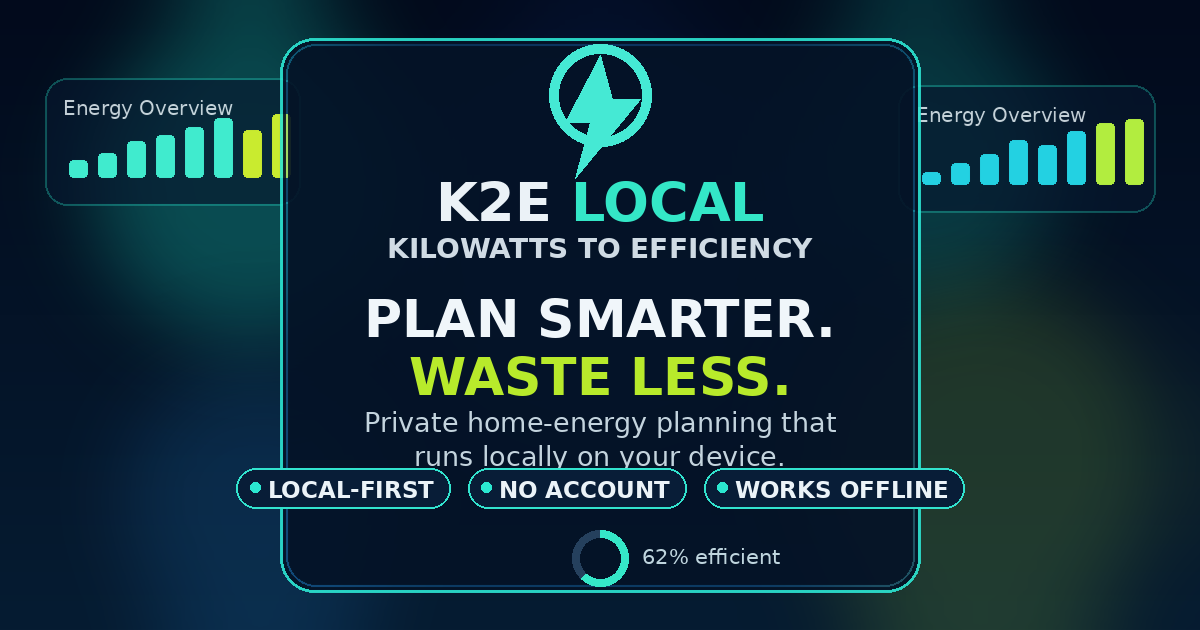
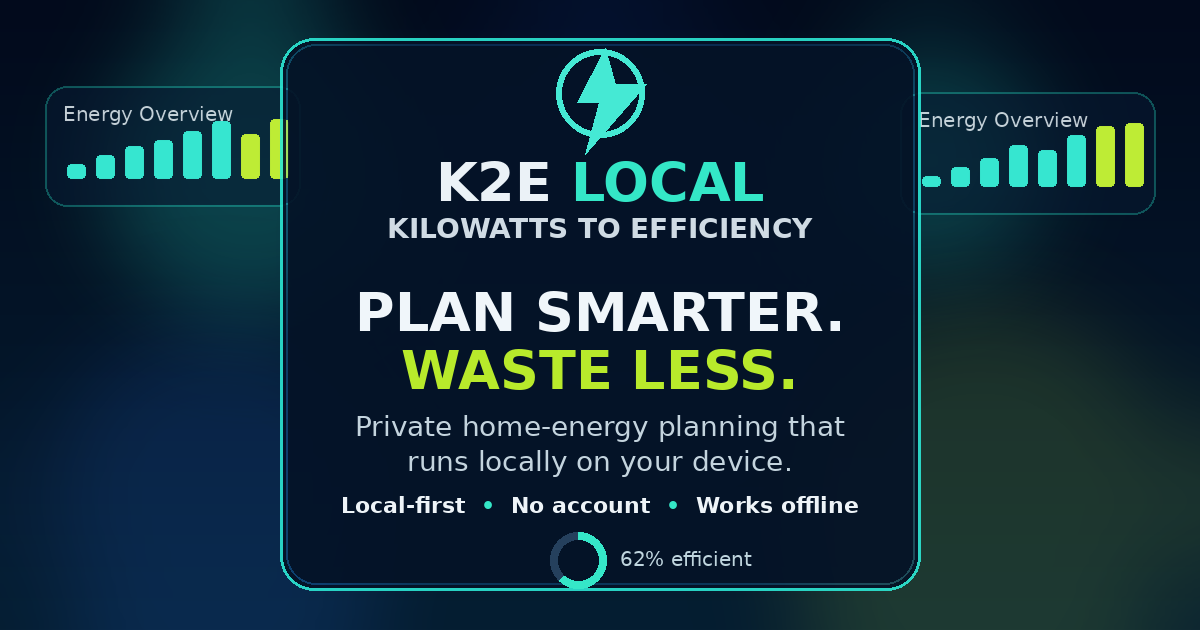
Add files via upload
Tighten K2E social preview trust row to prevent bottom text cropping

diff --git a/app.html b/app.html
@@ -25,8 +25,8 @@
 <meta property="og:type" content="website">
 <meta property="og:locale" content="en_CA">
 <meta property="og:url" content="https://nrg-roan.vercel.app/app.html">
-<meta property="og:image" content="https://nrg-roan.vercel.app/assets/k2e-local-social-preview-v1.14.0.png">
-<meta property="og:image:secure_url" content="https://nrg-roan.vercel.app/assets/k2e-local-social-preview-v1.14.0.png">
+<meta property="og:image" content="https://nrg-roan.vercel.app/assets/k2e-local-social-preview-v1.14.1.png">
+<meta property="og:image:secure_url" content="https://nrg-roan.vercel.app/assets/k2e-local-social-preview-v1.14.1.png">
 <meta property="og:image:type" content="image/png">
 <meta property="og:image:width" content="1200">
 <meta property="og:image:height" content="630">
@@ -34,7 +34,7 @@
 <meta name="twitter:card" content="summary_large_image">
 <meta name="twitter:title" content="K2E Local — Home Energy Simulator">
 <meta name="twitter:description" content="Know where your home energy goes. Plan smarter, waste less, and keep your data on your device with K2E Local.">
-<meta name="twitter:image" content="https://nrg-roan.vercel.app/assets/k2e-local-social-preview-v1.14.0.png">
+<meta name="twitter:image" content="https://nrg-roan.vercel.app/assets/k2e-local-social-preview-v1.14.1.png">
 <meta name="twitter:image:alt" content="K2E Local — Plan smarter, waste less with private local home-energy planning">
 <style>
 /* ======== ULTRA-CONTRAST v3 THEME TOKENS ======== */
@@ -8913,79 +8913,6 @@ if(document.readyState==='loading')document.addEventListener('DOMContentLoaded',
 })();
 </script>
 
-
-
-<!-- K2E Local v1.14.0 — final release hardening -->
-<style id="k2e-v1140-hardening-style">
-.k2e-v1140-onboarding{display:grid;grid-template-columns:minmax(0,1fr) auto;gap:18px;align-items:center;margin:12px 0 16px;padding:16px 18px;border:1px solid color-mix(in srgb,var(--accent) 48%,var(--card-br));border-radius:16px;background:linear-gradient(135deg,color-mix(in srgb,var(--card) 94%,var(--accent) 6%),color-mix(in srgb,var(--card) 97%,var(--accent-2) 3%));box-shadow:0 14px 35px rgba(0,0,0,.08)}
-.k2e-v1140-onboarding h2{font-size:clamp(18px,2vw,24px);margin:0 0 6px}.k2e-v1140-onboarding p{margin:0;color:var(--muted);line-height:1.5}.k2e-v1140-steps{display:flex;gap:8px;flex-wrap:wrap;justify-content:flex-end}.k2e-v1140-step{display:inline-flex;align-items:center;gap:7px;padding:8px 11px;border:1px solid var(--card-br);border-radius:999px;background:var(--card);font-size:12px;font-weight:850;white-space:nowrap}.k2e-v1140-step b{display:grid;place-items:center;width:20px;height:20px;border-radius:50%;background:var(--accent);color:#041018;font-size:11px}
-.k2e-v1140-network{position:fixed;right:14px;bottom:14px;z-index:9999;display:inline-flex;align-items:center;gap:7px;padding:8px 11px;border:1px solid var(--card-br);border-radius:999px;background:color-mix(in srgb,var(--card) 95%,transparent);box-shadow:0 10px 28px rgba(0,0,0,.16);font-size:12px;font-weight:850;backdrop-filter:blur(12px)}.k2e-v1140-network::before{content:'●';color:#22c55e}.k2e-v1140-network[data-online="false"]::before{color:#f59e0b}
-.k2e-v1140-footer{margin:18px auto 8px;padding:14px 16px;text-align:center;color:var(--muted);font-size:12px;font-weight:750;border-top:1px solid var(--card-br)}
-.k2e-v1140-invalid{border-color:#ef4444!important;box-shadow:0 0 0 3px rgba(239,68,68,.16)!important}.k2e-v1140-field-error{display:block;margin-top:5px;color:#ef4444;font-size:12px;font-weight:750}
-.k2e-v1140-updating{opacity:.72;transition:opacity .15s ease}.k2e-v1140-updating::after{content:' Updating plan…';font-size:11px;color:var(--muted);font-weight:750}
-@media(max-width:760px){.k2e-v1140-onboarding{grid-template-columns:1fr}.k2e-v1140-steps{justify-content:flex-start}.k2e-v1140-network{right:8px;bottom:8px}.k2e-v1140-step{flex:1 1 135px;justify-content:center}}
-@media(max-width:430px){.k2e-v1140-onboarding{padding:14px}.k2e-v1140-steps{display:grid;grid-template-columns:1fr}.k2e-v1140-step{width:100%}}
-@media(prefers-reduced-motion:reduce){.k2e-v1140-updating{transition:none}}
-</style>
-<script id="k2e-v1140-hardening-script">
-(()=>{
-'use strict';
-const $=(s,r=document)=>r.querySelector(s), $$=(s,r=document)=>[...r.querySelectorAll(s)];
-const announce=msg=>{const n=$('#myvera-global-status');if(n)n.textContent=msg};
-function addOnboarding(){
- if($('#k2e-v1140-onboarding'))return;
- const host=$('#myvera-main-content')||$('main')||document.body;
- const box=document.createElement('section');box.id='k2e-v1140-onboarding';box.className='k2e-v1140-onboarding';box.setAttribute('aria-label','Quick start');
- box.innerHTML='<div><h2>Build a clearer home-energy plan</h2><p>Choose a mode, enter the devices you actually use, then review the estimate and recommended changes. Everything stays on this device.</p></div><div class="k2e-v1140-steps" aria-label="Three-step workflow"><span class="k2e-v1140-step"><b>1</b>Choose a mode</span><span class="k2e-v1140-step"><b>2</b>Add household details</span><span class="k2e-v1140-step"><b>3</b>Review your plan</span></div>';
- host.insertAdjacentElement('afterbegin',box);
-}
-function addNetworkState(){
- if($('#k2e-v1140-network'))return;
- const node=document.createElement('div');node.id='k2e-v1140-network';node.className='k2e-v1140-network';node.setAttribute('role','status');node.setAttribute('aria-live','polite');document.body.appendChild(node);
- const paint=()=>{const on=navigator.onLine;node.dataset.online=String(on);node.textContent=on?'Online · local calculations ready':'Offline · local calculations ready';announce(node.textContent)};
- addEventListener('online',paint);addEventListener('offline',paint);paint();
-}
-function addFooter(){
- if($('#k2e-v1140-footer'))return;
- const footer=document.createElement('footer');footer.id='k2e-v1140-footer';footer.className='k2e-v1140-footer';footer.textContent='Private by design · Calculations stay on your device · No account required';
- (document.querySelector('main')||document.body).insertAdjacentElement('afterend',footer);
-}
-function validateNumber(input){
- if(input.disabled||input.readOnly||input.type!=='number')return true;
- const raw=input.value.trim();let message='';
- if(raw==='')return clearError(input);
- const value=Number(raw), min=input.min!==''?Number(input.min):0, max=input.max!==''?Number(input.max):Infinity;
- if(!Number.isFinite(value))message='Enter a valid number.';
- else if(value<min)message='Use a value of '+min+' or higher.';
- else if(value>max)message='Use a value of '+max+' or lower.';
- else if(/hour|runtime/i.test(input.id+' '+input.name) && value>24)message='Daily runtime cannot exceed 24 hours.';
- else if(/qty|quantity/i.test(input.id+' '+input.name) && value>100)message='Check this quantity; it appears unusually high.';
- else if(/watt|power/i.test(input.id+' '+input.name) && value>50000)message='Check the wattage; it appears unusually high.';
- if(!message)return clearError(input);
- input.classList.add('k2e-v1140-invalid');input.setAttribute('aria-invalid','true');
- let err=input.parentElement?.querySelector('.k2e-v1140-field-error');if(!err){err=document.createElement('span');err.className='k2e-v1140-field-error';input.insertAdjacentElement('afterend',err)}err.textContent=message;return false;
-}
-function clearError(input){input.classList.remove('k2e-v1140-invalid');input.removeAttribute('aria-invalid');input.parentElement?.querySelector('.k2e-v1140-field-error')?.remove();return true}
-function wireValidation(){
- document.addEventListener('blur',e=>{if(e.target.matches('input[type="number"]'))validateNumber(e.target)},true);
- document.addEventListener('input',e=>{if(e.target.matches('input[type="number"]')&&e.target.classList.contains('k2e-v1140-invalid'))validateNumber(e.target)},true);
- document.addEventListener('submit',e=>{const invalid=$$('input[type="number"]',e.target).filter(i=>!validateNumber(i));if(invalid.length){e.preventDefault();invalid[0].focus();announce('Please correct the highlighted value.')}},true);
-}
-function wireResetProtection(){
- document.addEventListener('click',e=>{const b=e.target.closest('#btn-reset');if(!b||b.dataset.k2eConfirmed==='1')return;if(!confirm('Reset the current tweaks? Your saved household workspace will remain, but unsaved view adjustments will return to defaults.')){e.preventDefault();e.stopImmediatePropagation();announce('Reset cancelled');return}b.dataset.k2eConfirmed='1';setTimeout(()=>delete b.dataset.k2eConfirmed,0)},true);
-}
-function wireUpdateFeedback(){
- let timer;document.addEventListener('input',e=>{if(!e.target.matches('input,select'))return;const status=$('#myvera-workspace-status')||$('#myvera-save-state');if(!status)return;status.classList.add('k2e-v1140-updating');clearTimeout(timer);timer=setTimeout(()=>status.classList.remove('k2e-v1140-updating'),500)},true);
-}
-function improveInputs(){
- $$('input[type="number"]').forEach(i=>{if(i.min==='')i.min='0';i.inputMode='decimal'});
- $$('button').forEach(b=>{if(!b.getAttribute('type'))b.type='button'});
-}
-function boot(){addOnboarding();addNetworkState();addFooter();improveInputs();wireValidation();wireResetProtection();wireUpdateFeedback();announce('K2E Local is ready. Your workspace saves locally.');}
-if(document.readyState==='loading')document.addEventListener('DOMContentLoaded',boot,{once:true});else boot();
-})();
-</script>
-
 </body>
 <!-- K2E Local v27.8.14 — Roadmap Trajectory Lock -->
 <style id="myvera-v27813-github-prepush-stability-polish">
@@ -11774,156 +11701,10 @@ html:not(.myvera-developer-mode) .ai-provider-details {
   function renderReport(){const paper=$('k2e-report-paper');if(paper)paper.innerHTML=reportMarkup()}
   function printReport(){
     const html=reportMarkup(),win=window.open('','_blank');if(!win){alert('The browser blocked the print window. Allow pop-ups for this page and try again.');return}
-    try{win.opener=null}catch(_){};win.document.write('<!doctype html><html><head><meta charset="utf-8"><title>K2E Local Energy Report</title><style>body{font-family:Arial,sans-serif;color:#14202a;margin:32px}h1{margin-bottom:4px}h2{font-size:17px;margin-top:24px;border-bottom:2px solid #d9e2e8;padding-bottom:6px}.k2e-report-meta{color:#50616f;font-size:12px}.k2e-report-grid{display:grid;grid-template-columns:repeat(3,1fr);gap:9px}.k2e-report-stat,.k2e-report-action{border:1px solid #d9e2e8;border-radius:9px;padding:10px}.k2e-report-stat span{display:block;font-size:11px;color:#5b6872}.k2e-report-stat strong{display:block;margin-top:4px}.k2e-report-table{width:100%;border-collapse:collapse;font-size:12px}.k2e-report-table th,.k2e-report-table td{padding:7px;border-bottom:1px solid #e2e8ec;text-align:left}.k2e-report-table th{background:#f4f7f8}.k2e-report-action{margin:8px 0}.k2e-report-disclaimer{font-size:11px;color:#5b6872;border-top:1px solid #d9e2e8;margin-top:22px;padding-top:10px}@media print{body{margin:.4in}}</style></head><body>'+html+'<script>window.onload=()=>{window.print()}<\/script>
-
-<!-- K2E Local v1.14.0 — final release hardening -->
-<style id="k2e-v1140-hardening-style">
-.k2e-v1140-onboarding{display:grid;grid-template-columns:minmax(0,1fr) auto;gap:18px;align-items:center;margin:12px 0 16px;padding:16px 18px;border:1px solid color-mix(in srgb,var(--accent) 48%,var(--card-br));border-radius:16px;background:linear-gradient(135deg,color-mix(in srgb,var(--card) 94%,var(--accent) 6%),color-mix(in srgb,var(--card) 97%,var(--accent-2) 3%));box-shadow:0 14px 35px rgba(0,0,0,.08)}
-.k2e-v1140-onboarding h2{font-size:clamp(18px,2vw,24px);margin:0 0 6px}.k2e-v1140-onboarding p{margin:0;color:var(--muted);line-height:1.5}.k2e-v1140-steps{display:flex;gap:8px;flex-wrap:wrap;justify-content:flex-end}.k2e-v1140-step{display:inline-flex;align-items:center;gap:7px;padding:8px 11px;border:1px solid var(--card-br);border-radius:999px;background:var(--card);font-size:12px;font-weight:850;white-space:nowrap}.k2e-v1140-step b{display:grid;place-items:center;width:20px;height:20px;border-radius:50%;background:var(--accent);color:#041018;font-size:11px}
-.k2e-v1140-network{position:fixed;right:14px;bottom:14px;z-index:9999;display:inline-flex;align-items:center;gap:7px;padding:8px 11px;border:1px solid var(--card-br);border-radius:999px;background:color-mix(in srgb,var(--card) 95%,transparent);box-shadow:0 10px 28px rgba(0,0,0,.16);font-size:12px;font-weight:850;backdrop-filter:blur(12px)}.k2e-v1140-network::before{content:'●';color:#22c55e}.k2e-v1140-network[data-online="false"]::before{color:#f59e0b}
-.k2e-v1140-footer{margin:18px auto 8px;padding:14px 16px;text-align:center;color:var(--muted);font-size:12px;font-weight:750;border-top:1px solid var(--card-br)}
-.k2e-v1140-invalid{border-color:#ef4444!important;box-shadow:0 0 0 3px rgba(239,68,68,.16)!important}.k2e-v1140-field-error{display:block;margin-top:5px;color:#ef4444;font-size:12px;font-weight:750}
-.k2e-v1140-updating{opacity:.72;transition:opacity .15s ease}.k2e-v1140-updating::after{content:' Updating plan…';font-size:11px;color:var(--muted);font-weight:750}
-@media(max-width:760px){.k2e-v1140-onboarding{grid-template-columns:1fr}.k2e-v1140-steps{justify-content:flex-start}.k2e-v1140-network{right:8px;bottom:8px}.k2e-v1140-step{flex:1 1 135px;justify-content:center}}
-@media(max-width:430px){.k2e-v1140-onboarding{padding:14px}.k2e-v1140-steps{display:grid;grid-template-columns:1fr}.k2e-v1140-step{width:100%}}
-@media(prefers-reduced-motion:reduce){.k2e-v1140-updating{transition:none}}
-</style>
-<script id="k2e-v1140-hardening-script">
-(()=>{
-'use strict';
-const $=(s,r=document)=>r.querySelector(s), $$=(s,r=document)=>[...r.querySelectorAll(s)];
-const announce=msg=>{const n=$('#myvera-global-status');if(n)n.textContent=msg};
-function addOnboarding(){
- if($('#k2e-v1140-onboarding'))return;
- const host=$('#myvera-main-content')||$('main')||document.body;
- const box=document.createElement('section');box.id='k2e-v1140-onboarding';box.className='k2e-v1140-onboarding';box.setAttribute('aria-label','Quick start');
- box.innerHTML='<div><h2>Build a clearer home-energy plan</h2><p>Choose a mode, enter the devices you actually use, then review the estimate and recommended changes. Everything stays on this device.</p></div><div class="k2e-v1140-steps" aria-label="Three-step workflow"><span class="k2e-v1140-step"><b>1</b>Choose a mode</span><span class="k2e-v1140-step"><b>2</b>Add household details</span><span class="k2e-v1140-step"><b>3</b>Review your plan</span></div>';
- host.insertAdjacentElement('afterbegin',box);
-}
-function addNetworkState(){
- if($('#k2e-v1140-network'))return;
- const node=document.createElement('div');node.id='k2e-v1140-network';node.className='k2e-v1140-network';node.setAttribute('role','status');node.setAttribute('aria-live','polite');document.body.appendChild(node);
- const paint=()=>{const on=navigator.onLine;node.dataset.online=String(on);node.textContent=on?'Online · local calculations ready':'Offline · local calculations ready';announce(node.textContent)};
- addEventListener('online',paint);addEventListener('offline',paint);paint();
-}
-function addFooter(){
- if($('#k2e-v1140-footer'))return;
- const footer=document.createElement('footer');footer.id='k2e-v1140-footer';footer.className='k2e-v1140-footer';footer.textContent='Private by design · Calculations stay on your device · No account required';
- (document.querySelector('main')||document.body).insertAdjacentElement('afterend',footer);
-}
-function validateNumber(input){
- if(input.disabled||input.readOnly||input.type!=='number')return true;
- const raw=input.value.trim();let message='';
- if(raw==='')return clearError(input);
- const value=Number(raw), min=input.min!==''?Number(input.min):0, max=input.max!==''?Number(input.max):Infinity;
- if(!Number.isFinite(value))message='Enter a valid number.';
- else if(value<min)message='Use a value of '+min+' or higher.';
- else if(value>max)message='Use a value of '+max+' or lower.';
- else if(/hour|runtime/i.test(input.id+' '+input.name) && value>24)message='Daily runtime cannot exceed 24 hours.';
- else if(/qty|quantity/i.test(input.id+' '+input.name) && value>100)message='Check this quantity; it appears unusually high.';
- else if(/watt|power/i.test(input.id+' '+input.name) && value>50000)message='Check the wattage; it appears unusually high.';
- if(!message)return clearError(input);
- input.classList.add('k2e-v1140-invalid');input.setAttribute('aria-invalid','true');
- let err=input.parentElement?.querySelector('.k2e-v1140-field-error');if(!err){err=document.createElement('span');err.className='k2e-v1140-field-error';input.insertAdjacentElement('afterend',err)}err.textContent=message;return false;
-}
-function clearError(input){input.classList.remove('k2e-v1140-invalid');input.removeAttribute('aria-invalid');input.parentElement?.querySelector('.k2e-v1140-field-error')?.remove();return true}
-function wireValidation(){
- document.addEventListener('blur',e=>{if(e.target.matches('input[type="number"]'))validateNumber(e.target)},true);
- document.addEventListener('input',e=>{if(e.target.matches('input[type="number"]')&&e.target.classList.contains('k2e-v1140-invalid'))validateNumber(e.target)},true);
- document.addEventListener('submit',e=>{const invalid=$$('input[type="number"]',e.target).filter(i=>!validateNumber(i));if(invalid.length){e.preventDefault();invalid[0].focus();announce('Please correct the highlighted value.')}},true);
-}
-function wireResetProtection(){
- document.addEventListener('click',e=>{const b=e.target.closest('#btn-reset');if(!b||b.dataset.k2eConfirmed==='1')return;if(!confirm('Reset the current tweaks? Your saved household workspace will remain, but unsaved view adjustments will return to defaults.')){e.preventDefault();e.stopImmediatePropagation();announce('Reset cancelled');return}b.dataset.k2eConfirmed='1';setTimeout(()=>delete b.dataset.k2eConfirmed,0)},true);
-}
-function wireUpdateFeedback(){
- let timer;document.addEventListener('input',e=>{if(!e.target.matches('input,select'))return;const status=$('#myvera-workspace-status')||$('#myvera-save-state');if(!status)return;status.classList.add('k2e-v1140-updating');clearTimeout(timer);timer=setTimeout(()=>status.classList.remove('k2e-v1140-updating'),500)},true);
-}
-function improveInputs(){
- $$('input[type="number"]').forEach(i=>{if(i.min==='')i.min='0';i.inputMode='decimal'});
- $$('button').forEach(b=>{if(!b.getAttribute('type'))b.type='button'});
-}
-function boot(){addOnboarding();addNetworkState();addFooter();improveInputs();wireValidation();wireResetProtection();wireUpdateFeedback();announce('K2E Local is ready. Your workspace saves locally.');}
-if(document.readyState==='loading')document.addEventListener('DOMContentLoaded',boot,{once:true});else boot();
-})();
-</script>
-
-</body></html>');win.document.close();
+    try{win.opener=null}catch(_){};win.document.write('<!doctype html><html><head><meta charset="utf-8"><title>K2E Local Energy Report</title><style>body{font-family:Arial,sans-serif;color:#14202a;margin:32px}h1{margin-bottom:4px}h2{font-size:17px;margin-top:24px;border-bottom:2px solid #d9e2e8;padding-bottom:6px}.k2e-report-meta{color:#50616f;font-size:12px}.k2e-report-grid{display:grid;grid-template-columns:repeat(3,1fr);gap:9px}.k2e-report-stat,.k2e-report-action{border:1px solid #d9e2e8;border-radius:9px;padding:10px}.k2e-report-stat span{display:block;font-size:11px;color:#5b6872}.k2e-report-stat strong{display:block;margin-top:4px}.k2e-report-table{width:100%;border-collapse:collapse;font-size:12px}.k2e-report-table th,.k2e-report-table td{padding:7px;border-bottom:1px solid #e2e8ec;text-align:left}.k2e-report-table th{background:#f4f7f8}.k2e-report-action{margin:8px 0}.k2e-report-disclaimer{font-size:11px;color:#5b6872;border-top:1px solid #d9e2e8;margin-top:22px;padding-top:10px}@media print{body{margin:.4in}}</style></head><body>'+html+'<script>window.onload=()=>{window.print()}<\/script></body></html>');win.document.close();
   }
   function downloadReport(){
-    const documentHtml='<!doctype html><html><head><meta charset="utf-8"><meta name="viewport" content="width=device-width,initial-scale=1"><title>K2E Local Energy Report</title><style>body{font-family:Arial,sans-serif;color:#14202a;max-width:850px;margin:30px auto;padding:0 18px}h2{font-size:17px;margin-top:24px;border-bottom:2px solid #d9e2e8;padding-bottom:6px}.k2e-report-meta{color:#50616f;font-size:12px}.k2e-report-grid{display:grid;grid-template-columns:repeat(3,1fr);gap:9px}.k2e-report-stat,.k2e-report-action{border:1px solid #d9e2e8;border-radius:9px;padding:10px}.k2e-report-stat span{display:block;font-size:11px;color:#5b6872}.k2e-report-stat strong{display:block;margin-top:4px}.k2e-report-table{width:100%;border-collapse:collapse;font-size:12px}.k2e-report-table th,.k2e-report-table td{padding:7px;border-bottom:1px solid #e2e8ec;text-align:left}.k2e-report-table th{background:#f4f7f8}.k2e-report-action{margin:8px 0}.k2e-report-disclaimer{font-size:11px;color:#5b6872;border-top:1px solid #d9e2e8;margin-top:22px;padding-top:10px}@media(max-width:650px){.k2e-report-grid{grid-template-columns:1fr}}</style></head><body>'+reportMarkup()+'
-
-<!-- K2E Local v1.14.0 — final release hardening -->
-<style id="k2e-v1140-hardening-style">
-.k2e-v1140-onboarding{display:grid;grid-template-columns:minmax(0,1fr) auto;gap:18px;align-items:center;margin:12px 0 16px;padding:16px 18px;border:1px solid color-mix(in srgb,var(--accent) 48%,var(--card-br));border-radius:16px;background:linear-gradient(135deg,color-mix(in srgb,var(--card) 94%,var(--accent) 6%),color-mix(in srgb,var(--card) 97%,var(--accent-2) 3%));box-shadow:0 14px 35px rgba(0,0,0,.08)}
-.k2e-v1140-onboarding h2{font-size:clamp(18px,2vw,24px);margin:0 0 6px}.k2e-v1140-onboarding p{margin:0;color:var(--muted);line-height:1.5}.k2e-v1140-steps{display:flex;gap:8px;flex-wrap:wrap;justify-content:flex-end}.k2e-v1140-step{display:inline-flex;align-items:center;gap:7px;padding:8px 11px;border:1px solid var(--card-br);border-radius:999px;background:var(--card);font-size:12px;font-weight:850;white-space:nowrap}.k2e-v1140-step b{display:grid;place-items:center;width:20px;height:20px;border-radius:50%;background:var(--accent);color:#041018;font-size:11px}
-.k2e-v1140-network{position:fixed;right:14px;bottom:14px;z-index:9999;display:inline-flex;align-items:center;gap:7px;padding:8px 11px;border:1px solid var(--card-br);border-radius:999px;background:color-mix(in srgb,var(--card) 95%,transparent);box-shadow:0 10px 28px rgba(0,0,0,.16);font-size:12px;font-weight:850;backdrop-filter:blur(12px)}.k2e-v1140-network::before{content:'●';color:#22c55e}.k2e-v1140-network[data-online="false"]::before{color:#f59e0b}
-.k2e-v1140-footer{margin:18px auto 8px;padding:14px 16px;text-align:center;color:var(--muted);font-size:12px;font-weight:750;border-top:1px solid var(--card-br)}
-.k2e-v1140-invalid{border-color:#ef4444!important;box-shadow:0 0 0 3px rgba(239,68,68,.16)!important}.k2e-v1140-field-error{display:block;margin-top:5px;color:#ef4444;font-size:12px;font-weight:750}
-.k2e-v1140-updating{opacity:.72;transition:opacity .15s ease}.k2e-v1140-updating::after{content:' Updating plan…';font-size:11px;color:var(--muted);font-weight:750}
-@media(max-width:760px){.k2e-v1140-onboarding{grid-template-columns:1fr}.k2e-v1140-steps{justify-content:flex-start}.k2e-v1140-network{right:8px;bottom:8px}.k2e-v1140-step{flex:1 1 135px;justify-content:center}}
-@media(max-width:430px){.k2e-v1140-onboarding{padding:14px}.k2e-v1140-steps{display:grid;grid-template-columns:1fr}.k2e-v1140-step{width:100%}}
-@media(prefers-reduced-motion:reduce){.k2e-v1140-updating{transition:none}}
-</style>
-<script id="k2e-v1140-hardening-script">
-(()=>{
-'use strict';
-const $=(s,r=document)=>r.querySelector(s), $$=(s,r=document)=>[...r.querySelectorAll(s)];
-const announce=msg=>{const n=$('#myvera-global-status');if(n)n.textContent=msg};
-function addOnboarding(){
- if($('#k2e-v1140-onboarding'))return;
- const host=$('#myvera-main-content')||$('main')||document.body;
- const box=document.createElement('section');box.id='k2e-v1140-onboarding';box.className='k2e-v1140-onboarding';box.setAttribute('aria-label','Quick start');
- box.innerHTML='<div><h2>Build a clearer home-energy plan</h2><p>Choose a mode, enter the devices you actually use, then review the estimate and recommended changes. Everything stays on this device.</p></div><div class="k2e-v1140-steps" aria-label="Three-step workflow"><span class="k2e-v1140-step"><b>1</b>Choose a mode</span><span class="k2e-v1140-step"><b>2</b>Add household details</span><span class="k2e-v1140-step"><b>3</b>Review your plan</span></div>';
- host.insertAdjacentElement('afterbegin',box);
-}
-function addNetworkState(){
- if($('#k2e-v1140-network'))return;
- const node=document.createElement('div');node.id='k2e-v1140-network';node.className='k2e-v1140-network';node.setAttribute('role','status');node.setAttribute('aria-live','polite');document.body.appendChild(node);
- const paint=()=>{const on=navigator.onLine;node.dataset.online=String(on);node.textContent=on?'Online · local calculations ready':'Offline · local calculations ready';announce(node.textContent)};
- addEventListener('online',paint);addEventListener('offline',paint);paint();
-}
-function addFooter(){
- if($('#k2e-v1140-footer'))return;
- const footer=document.createElement('footer');footer.id='k2e-v1140-footer';footer.className='k2e-v1140-footer';footer.textContent='Private by design · Calculations stay on your device · No account required';
- (document.querySelector('main')||document.body).insertAdjacentElement('afterend',footer);
-}
-function validateNumber(input){
- if(input.disabled||input.readOnly||input.type!=='number')return true;
- const raw=input.value.trim();let message='';
- if(raw==='')return clearError(input);
- const value=Number(raw), min=input.min!==''?Number(input.min):0, max=input.max!==''?Number(input.max):Infinity;
- if(!Number.isFinite(value))message='Enter a valid number.';
- else if(value<min)message='Use a value of '+min+' or higher.';
- else if(value>max)message='Use a value of '+max+' or lower.';
- else if(/hour|runtime/i.test(input.id+' '+input.name) && value>24)message='Daily runtime cannot exceed 24 hours.';
- else if(/qty|quantity/i.test(input.id+' '+input.name) && value>100)message='Check this quantity; it appears unusually high.';
- else if(/watt|power/i.test(input.id+' '+input.name) && value>50000)message='Check the wattage; it appears unusually high.';
- if(!message)return clearError(input);
- input.classList.add('k2e-v1140-invalid');input.setAttribute('aria-invalid','true');
- let err=input.parentElement?.querySelector('.k2e-v1140-field-error');if(!err){err=document.createElement('span');err.className='k2e-v1140-field-error';input.insertAdjacentElement('afterend',err)}err.textContent=message;return false;
-}
-function clearError(input){input.classList.remove('k2e-v1140-invalid');input.removeAttribute('aria-invalid');input.parentElement?.querySelector('.k2e-v1140-field-error')?.remove();return true}
-function wireValidation(){
- document.addEventListener('blur',e=>{if(e.target.matches('input[type="number"]'))validateNumber(e.target)},true);
- document.addEventListener('input',e=>{if(e.target.matches('input[type="number"]')&&e.target.classList.contains('k2e-v1140-invalid'))validateNumber(e.target)},true);
- document.addEventListener('submit',e=>{const invalid=$$('input[type="number"]',e.target).filter(i=>!validateNumber(i));if(invalid.length){e.preventDefault();invalid[0].focus();announce('Please correct the highlighted value.')}},true);
-}
-function wireResetProtection(){
- document.addEventListener('click',e=>{const b=e.target.closest('#btn-reset');if(!b||b.dataset.k2eConfirmed==='1')return;if(!confirm('Reset the current tweaks? Your saved household workspace will remain, but unsaved view adjustments will return to defaults.')){e.preventDefault();e.stopImmediatePropagation();announce('Reset cancelled');return}b.dataset.k2eConfirmed='1';setTimeout(()=>delete b.dataset.k2eConfirmed,0)},true);
-}
-function wireUpdateFeedback(){
- let timer;document.addEventListener('input',e=>{if(!e.target.matches('input,select'))return;const status=$('#myvera-workspace-status')||$('#myvera-save-state');if(!status)return;status.classList.add('k2e-v1140-updating');clearTimeout(timer);timer=setTimeout(()=>status.classList.remove('k2e-v1140-updating'),500)},true);
-}
-function improveInputs(){
- $$('input[type="number"]').forEach(i=>{if(i.min==='')i.min='0';i.inputMode='decimal'});
- $$('button').forEach(b=>{if(!b.getAttribute('type'))b.type='button'});
-}
-function boot(){addOnboarding();addNetworkState();addFooter();improveInputs();wireValidation();wireResetProtection();wireUpdateFeedback();announce('K2E Local is ready. Your workspace saves locally.');}
-if(document.readyState==='loading')document.addEventListener('DOMContentLoaded',boot,{once:true});else boot();
-})();
-</script>
-
-</body></html>';
+    const documentHtml='<!doctype html><html><head><meta charset="utf-8"><meta name="viewport" content="width=device-width,initial-scale=1"><title>K2E Local Energy Report</title><style>body{font-family:Arial,sans-serif;color:#14202a;max-width:850px;margin:30px auto;padding:0 18px}h2{font-size:17px;margin-top:24px;border-bottom:2px solid #d9e2e8;padding-bottom:6px}.k2e-report-meta{color:#50616f;font-size:12px}.k2e-report-grid{display:grid;grid-template-columns:repeat(3,1fr);gap:9px}.k2e-report-stat,.k2e-report-action{border:1px solid #d9e2e8;border-radius:9px;padding:10px}.k2e-report-stat span{display:block;font-size:11px;color:#5b6872}.k2e-report-stat strong{display:block;margin-top:4px}.k2e-report-table{width:100%;border-collapse:collapse;font-size:12px}.k2e-report-table th,.k2e-report-table td{padding:7px;border-bottom:1px solid #e2e8ec;text-align:left}.k2e-report-table th{background:#f4f7f8}.k2e-report-action{margin:8px 0}.k2e-report-disclaimer{font-size:11px;color:#5b6872;border-top:1px solid #d9e2e8;margin-top:22px;padding-top:10px}@media(max-width:650px){.k2e-report-grid{grid-template-columns:1fr}}</style></head><body>'+reportMarkup()+'</body></html>';
     const blob=new Blob([documentHtml],{type:'text/html;charset=utf-8'}),url=URL.createObjectURL(blob),a=document.createElement('a');a.href=url;a.download='K2E_Local_Energy_Report_'+new Date().toISOString().slice(0,10)+'.html';document.body.appendChild(a);a.click();a.remove();setTimeout(()=>URL.revokeObjectURL(url),1000);
   }
   function wrap(){if(typeof window.renderAll!=='function'||window.renderAll.__k2eV110)return;const original=window.renderAll;const wrapped=function(){const result=original.apply(this,arguments);setTimeout(render,0);return result};wrapped.__k2eV110=true;window.renderAll=wrapped}

diff --git a/index.html b/index.html
@@ -13,8 +13,8 @@
 <meta property="og:type" content="website">
 <meta property="og:locale" content="en_CA">
 <meta property="og:url" content="https://nrg-roan.vercel.app/">
-<meta property="og:image" content="https://nrg-roan.vercel.app/assets/k2e-local-social-preview-v1.14.0.png">
-<meta property="og:image:secure_url" content="https://nrg-roan.vercel.app/assets/k2e-local-social-preview-v1.14.0.png">
+<meta property="og:image" content="https://nrg-roan.vercel.app/assets/k2e-local-social-preview-v1.14.1.png">
+<meta property="og:image:secure_url" content="https://nrg-roan.vercel.app/assets/k2e-local-social-preview-v1.14.1.png">
 <meta property="og:image:type" content="image/png">
 <meta property="og:image:width" content="1200">
 <meta property="og:image:height" content="630">
@@ -22,7 +22,7 @@
 <meta name="twitter:card" content="summary_large_image">
 <meta name="twitter:title" content="K2E Local — Kilowatts to Efficiency">
 <meta name="twitter:description" content="Know where your home energy goes. Plan smarter, waste less, and keep your data on your device with K2E Local.">
-<meta name="twitter:image" content="https://nrg-roan.vercel.app/assets/k2e-local-social-preview-v1.14.0.png">
+<meta name="twitter:image" content="https://nrg-roan.vercel.app/assets/k2e-local-social-preview-v1.14.1.png">
 <meta name="twitter:image:alt" content="K2E Local — Plan smarter, waste less with private local home-energy planning">
 <link rel="manifest" href="./manifest.json">
 <style>

diff --git a/sw.js b/sw.js
@@ -1,10 +1,10 @@
-const CACHE_NAME = 'k2e-local-v1.14.0-release-hardening';
+const CACHE_NAME = 'k2e-local-v1.14.1-social-tighten';
 const APP_SHELL = [
   './','./index.html','./app.html','./manifest.json','./robots.txt','./sitemap.xml',
   './icon-192.png','./icon-512.png','./assets/k2e-local-brand-dark.png',
   './assets/k2e-local-brand-detailed.png','./assets/k2e-local-brand-night.png',
   './assets/k2e-local-mark.png','./assets/k2e-local-social-preview.png',
-  './assets/k2e-local-social-preview-v1.14.0.png','./assets/k2e-local-readme-banner.jpg',
+  './assets/k2e-local-social-preview-v1.14.1.png','./assets/k2e-local-readme-banner.jpg',
   './assets/chart.umd.js'
 ];
 self.addEventListener('install', event => {

diff --git a/README.md b/README.md
@@ -78,7 +78,7 @@ No open-source license has been selected. Add a `LICENSE` file before inviting u
 
 ## Social Preview
 
-Current recommended social preview asset: `assets/k2e-local-social-preview-v1.14.0.png`
+Current recommended social preview asset: `assets/k2e-local-social-preview-v1.13.1.png`
 
 
 ## Current build
@@ -86,6 +86,6 @@ Current recommended social preview asset: `assets/k2e-local-social-preview-v1.14
 K2E Local v1.13.2 adds a cleaner dashboard hierarchy, refined cards, and improved mobile spacing while preserving the v1.13.1 social preview.
 
 
-## v1.14.0 release hardening
+## v1.14.1 note
 
-This release adds a clearer three-step welcome state, input validation, reset protection, online/offline status, stronger local-privacy reassurance, improved service-worker behavior, and corrected Vercel sitemap/robots metadata.
+The social preview trust row was tightened so the bottom line remains readable in aggressive mobile share crops. Current preview asset: `assets/k2e-local-social-preview-v1.14.1.png`.

diff --git a/RELEASE_NOTES_v1.14.1.md b/RELEASE_NOTES_v1.14.1.md
@@ -1,0 +1,14 @@
+# K2E Local v1.14.1
+
+Release date: 2026-08-03
+
+## What changed
+
+- Tightened the bottom trust row in the social preview so **Local-first · No account · Works offline** stays fully visible in Facebook/mobile share crops.
+- Re-exported the preview image with a new cache-busting filename: `assets/k2e-local-social-preview-v1.14.1.png`.
+- Updated `index.html`, `app.html`, and the service worker to use the new preview asset.
+- Bumped package metadata from **1.14.0** to **1.14.1**.
+
+## Deployment note
+
+Use the root URL `https://nrg-roan.vercel.app` in a fresh Facebook post after redeploy so platforms pick up the tightened preview image.

diff --git a/SOCIAL_PREVIEW_SETUP.md b/SOCIAL_PREVIEW_SETUP.md
@@ -12,3 +12,8 @@ The deployed site URL is:
 ## v1.13.1 note
 
 The current primary asset is `assets/k2e-local-social-preview-v1.13.1.png`. It is designed so all essential content stays inside the center-safe crop area used by Facebook mobile composer.
+
+
+## v1.14.1 note
+
+The social preview trust row was tightened so the bottom line remains readable in aggressive mobile share crops. Current preview asset: `assets/k2e-local-social-preview-v1.14.1.png`.
